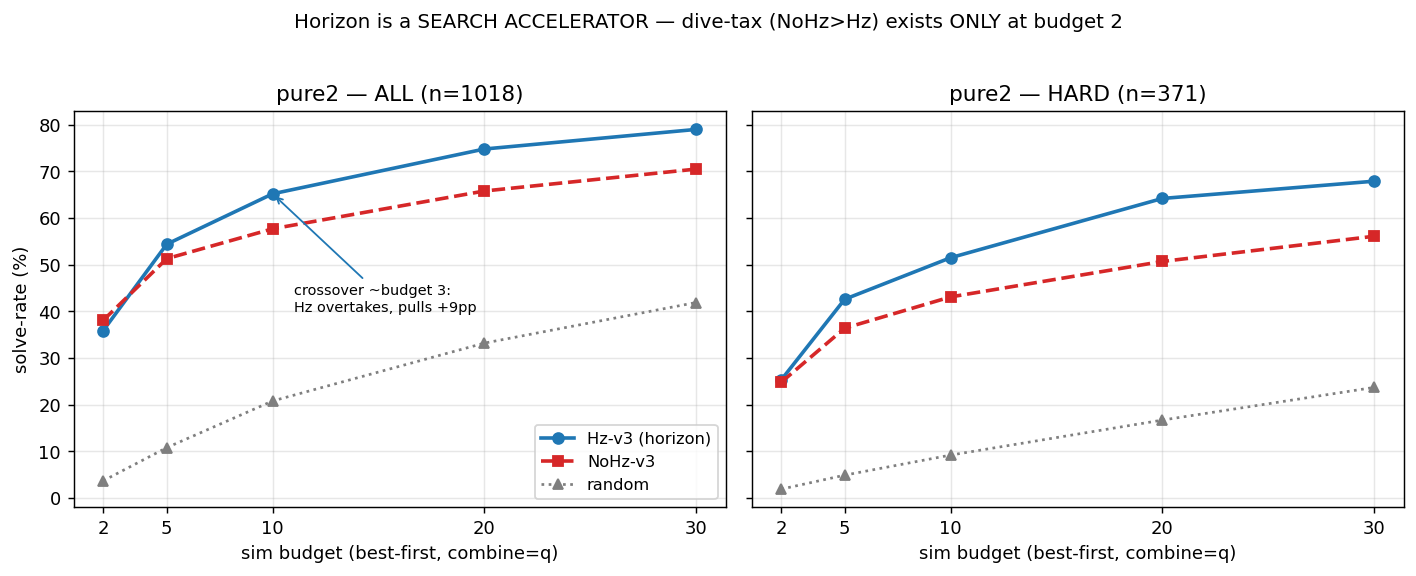
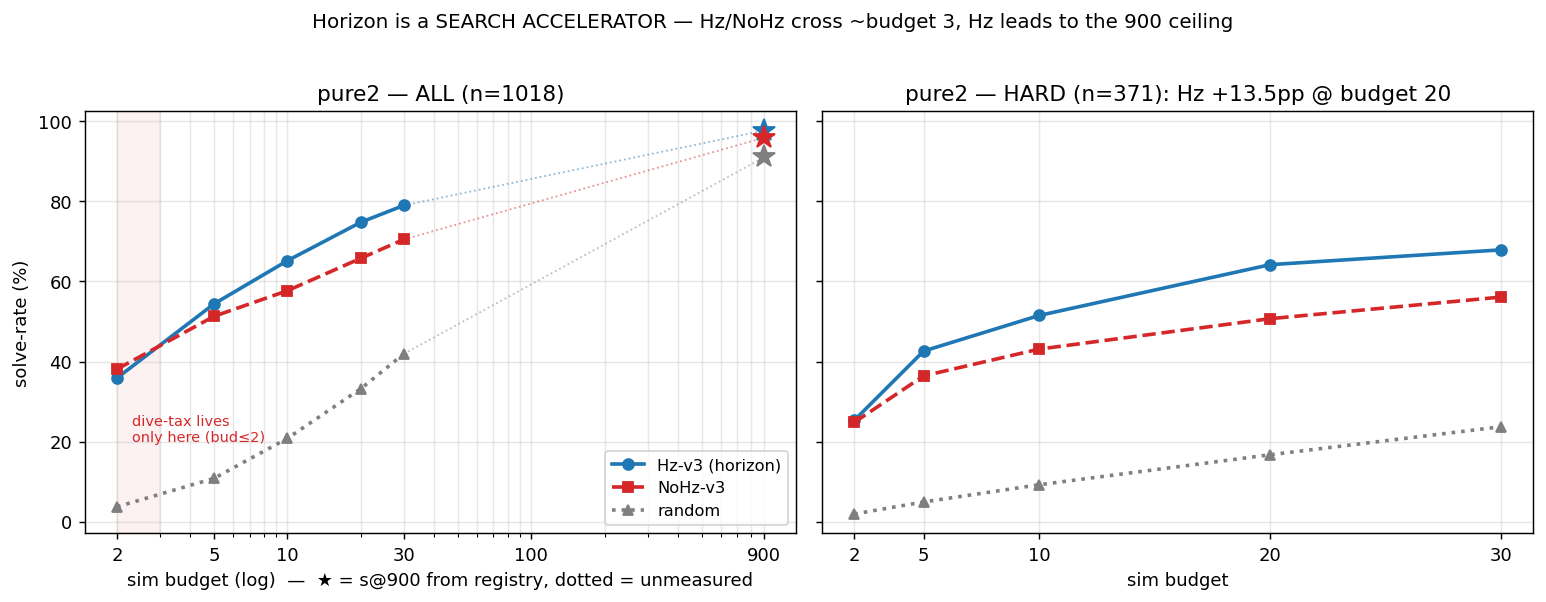
horizon-probe: fold follow-ups into the card (reopen live) — tiered curves + ceiling/time runs
Framework catch-up: the budget-150 tiered curves, arrakis ceiling run (budget 8000
-> tree-exhaustion, hard), and Amarel pinned wall-time run (time_bestfirst budget
10000, icelake exclusive, jobs 57986761/2) are now documented in the card + RESULTS
7e, not floating as ad-hoc sandbox runs. Status done->live (runs in flight).
Per-tier: value AND horizon pay off in proportion to difficulty (hard Hz +35 vs random).

Claude-Session: https://claude.ai/code/session_01ViK8UbGr3QuzwcVNfQsARm

diff --git a/docs/experiments/log/EXP-2026-07-09-horizon-role-probe.md b/docs/experiments/log/EXP-2026-07-09-horizon-role-probe.md
@@ -1,11 +1,12 @@
 ---
 type: experiment
-status: done
+status: live
 created: 2026-07-09
+updated: 2026-07-10
 commit: 3fa9b4a
-metric: reactive@1/@2 by (set × difficulty), opened_at split (1-push vs 2-push solution), avg sims, avg t_wall
+metric: reactive@1/@2 (route split) + best-first solve-vs-{budget,wall-time} by (set × difficulty); ceiling@exhaustion vs random
 thread: scorer-search
-tags: [experiment, horizon, hz-v3, ablation, ranker]
+tags: [experiment, horizon, hz-v3, ablation, ranker, search, ceiling, wall-time]
 ---
 # What does the horizon input actually DO? — Hz-v3 vs NoHz-v3 vs random, H=2-first / H=1-second, on the 1-push AND 2-push sets
 
@@ -94,3 +95,25 @@ Told H=2, Hz demotes the direct opener below a setup on ~6/27 episodes → same 
 **Verdict (updated by the sweep):** the horizon input does two separable things. (1) **Reactive / route:** it trades *when* you solve (setup-detour) — a wash on 1-push final solve (+1.2), a tax on easy, a boon on hard. (2) **Search:** it is a genuine **search accelerator** — its H=2 setup ranking lifts best-first by +3→+9pp (up to +13 hard) at any budget ≥~3; the "NoHz wins best-first" was a budget-2 artifact. So the earlier drop-horizon TIE was measured in the ONE regime (reactive @2 / budget-2) where horizon is neutral-to-bad; **with search budget, horizon clearly wins.** This nuances (does not overturn) the deploy pick: the prize was the ~0-sim reactive regime [[horizon_q_HANDOFF]], where NoHz-v3 stays the baseline — but if any search budget is on the table, Hz-v3 dominates.
 
 **Caveats:** single-seed (s1) per model; near-ceiling car eval jitters ~0.3mm [[reference_eval_sim_nondeterminism]] so treat sub-2pp as noise (the ~8pp route-shift and +4pp hard-2push are well above it). Best-first at budget 2 ≈ reactive's dive space; the dive-tax widens at larger budgets (a budget sweep is the natural follow-up).
+
+### Budget sweep, PER TIER (extended to budget 150) — the win scales with difficulty
+`run_horizon_sweep150.sh` (budget-150 run, derived curve). pure2, combine=q, real data 2→150; ★=registry s@900 (ALL only). ![[horizon_budget_curve_tiers.png]]
+
+**solve@150 vs random, by tier:**
+
+| tier | Hz-v3 | NoHz-v3 | random | Hz over random |
+|---|---|---|---|---|
+| easy | 97.9 | 94.5 | 94.5 | +3.4 (random nearly catches up) |
+| med | 94.1 | 88.3 | 79.2 | +14.9 |
+| **hard** | 84.6 | 74.1 | 49.3 | **+35.3** |
+
+- **Both the learned value (vs random) AND the horizon (Hz vs NoHz) pay off in proportion to difficulty** — negligible on easy, decisive on hard. On easy, random *catches up* by budget 150 (many working setups → brute force finds one); on hard it's stranded at 49% while Hz reaches 85%.
+- **Dive-tax (NoHz−Hz) peaks on hard** at −14.8pp @budget 60 (Hz +14.8), −10.5 @150; easy stays ~−2/−3.
+
+### Ceiling + wall-time (IN FLIGHT, 2026-07-10) — does the learned ranker hit 100% on hard, and what does it cost in seconds?
+Two runs probe the far end of the curve on the **hard tiers** (hard keys `pure2push_HARD.json` n=371, `onepush_HARD.json` n=442 tertile):
+- **Ceiling (sims, machine-independent)** — arrakis GPU, `run_ceiling_hard.sh`, `eval_bestfirst` **budget 8000** (≫ the finite object-constrained hmax-2 tree, so it runs to **tree-exhaustion**), Hz/NoHz/random. **Question:** if Hz/NoHz *and* random all plateau at the same sub-100% ceiling → the residual is a **floor** (no solving push-pair in the object's tree, or controller jam — the [[_offline_online_gap]] finding), NOT a ranking gap. Report **max n_sim** to confirm exhaustion vs truncation. Eval dir `…/eval/horizon_probe/ceiling/`.
+- **Wall-time (poolable), per [[WORKFLOW]] §42** — Amarel, `time_bestfirst.py` **budget 10000**, `--exclusive --constraint=icelake`, CPU-only single-thread, interleaved Hz/NoHz/random per episode (`random` = the poolable anchor). Jobs `57986761` (2push hard) / `57986762` (1push hard). Gives `solve@{1,5,30}s` + avg t_wall on pinned HW, poolable with RESULTS Table 2a. Eval dirs `/scratch/dm1487/eval/horizon_probe/time_hard_{2push,1push}/`.
+- **⚠ arrakis (sweep/ceiling) t_wall is NOT poolable with Amarel** (shared box, no pinning) — sims are the cross-box substrate; only the Amarel run's seconds go on a poolable time axis.
+
+**Result:** _(pending — fold solve-vs-{sims,seconds} plateau + floor autopsy on completion)_

diff --git a/docs/experiments/RESULTS.md b/docs/experiments/RESULTS.md
@@ -273,6 +273,16 @@ Card: [[EXP-2026-07-09-horizon-role-probe]]. The 1-push set is the clean probe (
 
 NoHz−Hz flips +2.2→−9.0 (hard −13.5 @20) — Hz and NoHz cross at ~budget 3, then Hz pulls away. ![[horizon_budget_curve.png]]
 
+**Table 7e. Per-tier at budget 150 (pure2) — value AND horizon pay off in proportion to difficulty:**
+
+| tier | Hz-v3 | NoHz-v3 | random | Hz over random |
+|---|---|---|---|---|
+| easy | 97.9 | 94.5 | 94.5 | +3.4 (random catches up) |
+| med | 94.1 | 88.3 | 79.2 | +14.9 |
+| **hard** | 84.6 | 74.1 | 49.3 | **+35.3** |
+
+Dive-tax (NoHz−Hz) peaks hard −14.8 @budget 60. On easy random nearly matches by 150; on hard it's stranded at 49% vs Hz 85%. ![[horizon_budget_curve_tiers.png]] **In flight (2026-07-10):** ceiling run (arrakis, budget 8000 → tree-exhaustion) + pinned wall-time (Amarel, `time_bestfirst` budget 10000, icelake exclusive) on the hard tiers — does the learned ranker hit 100% or plateau at a floor, and the poolable `solve@t`. → card.
+
 **Finding.** The horizon input is a *working* knob and NoHz is the airtight control: NoHz H=2 ≡ H=1 byte-identical every tier, while Hz H=2 demotes the direct opener for a setup (−7.9pp react@1) — so the shift is 100% the horizon. It does two separable things. **(1) Reactive/route:** trades *when* you solve, not *whether* — 1-push react@2 wash (Hz-H2 90.9 ≈ NoHz 89.7), tax on easy, +3.6 on hard; on 2-push it wins forced-dive reactive (+4.5). **(2) Search:** it is a genuine **accelerator** — the earlier "NoHz wins best-first (+2.2)" was ONLY at budget 2; Hz's H=2 setup ranker wins best-first by +3→+9pp (up to +13 hard) at any budget ≥~3 (Table 7d), matching the registry `s@900` Hz 97.7 > NoHz 95.9. So the drop-horizon TIE was measured in the one regime (reactive/@2) where horizon is neutral; **with search budget, Hz-v3 dominates.** NoHz-v3 stays the ~0-sim reactive baseline. (Reproduces registry: NoHz pure2 reactive 40.8≈40.7, best-first@2 38.1≈37.8.)
 
 ## Prior work (seeded ledger)
